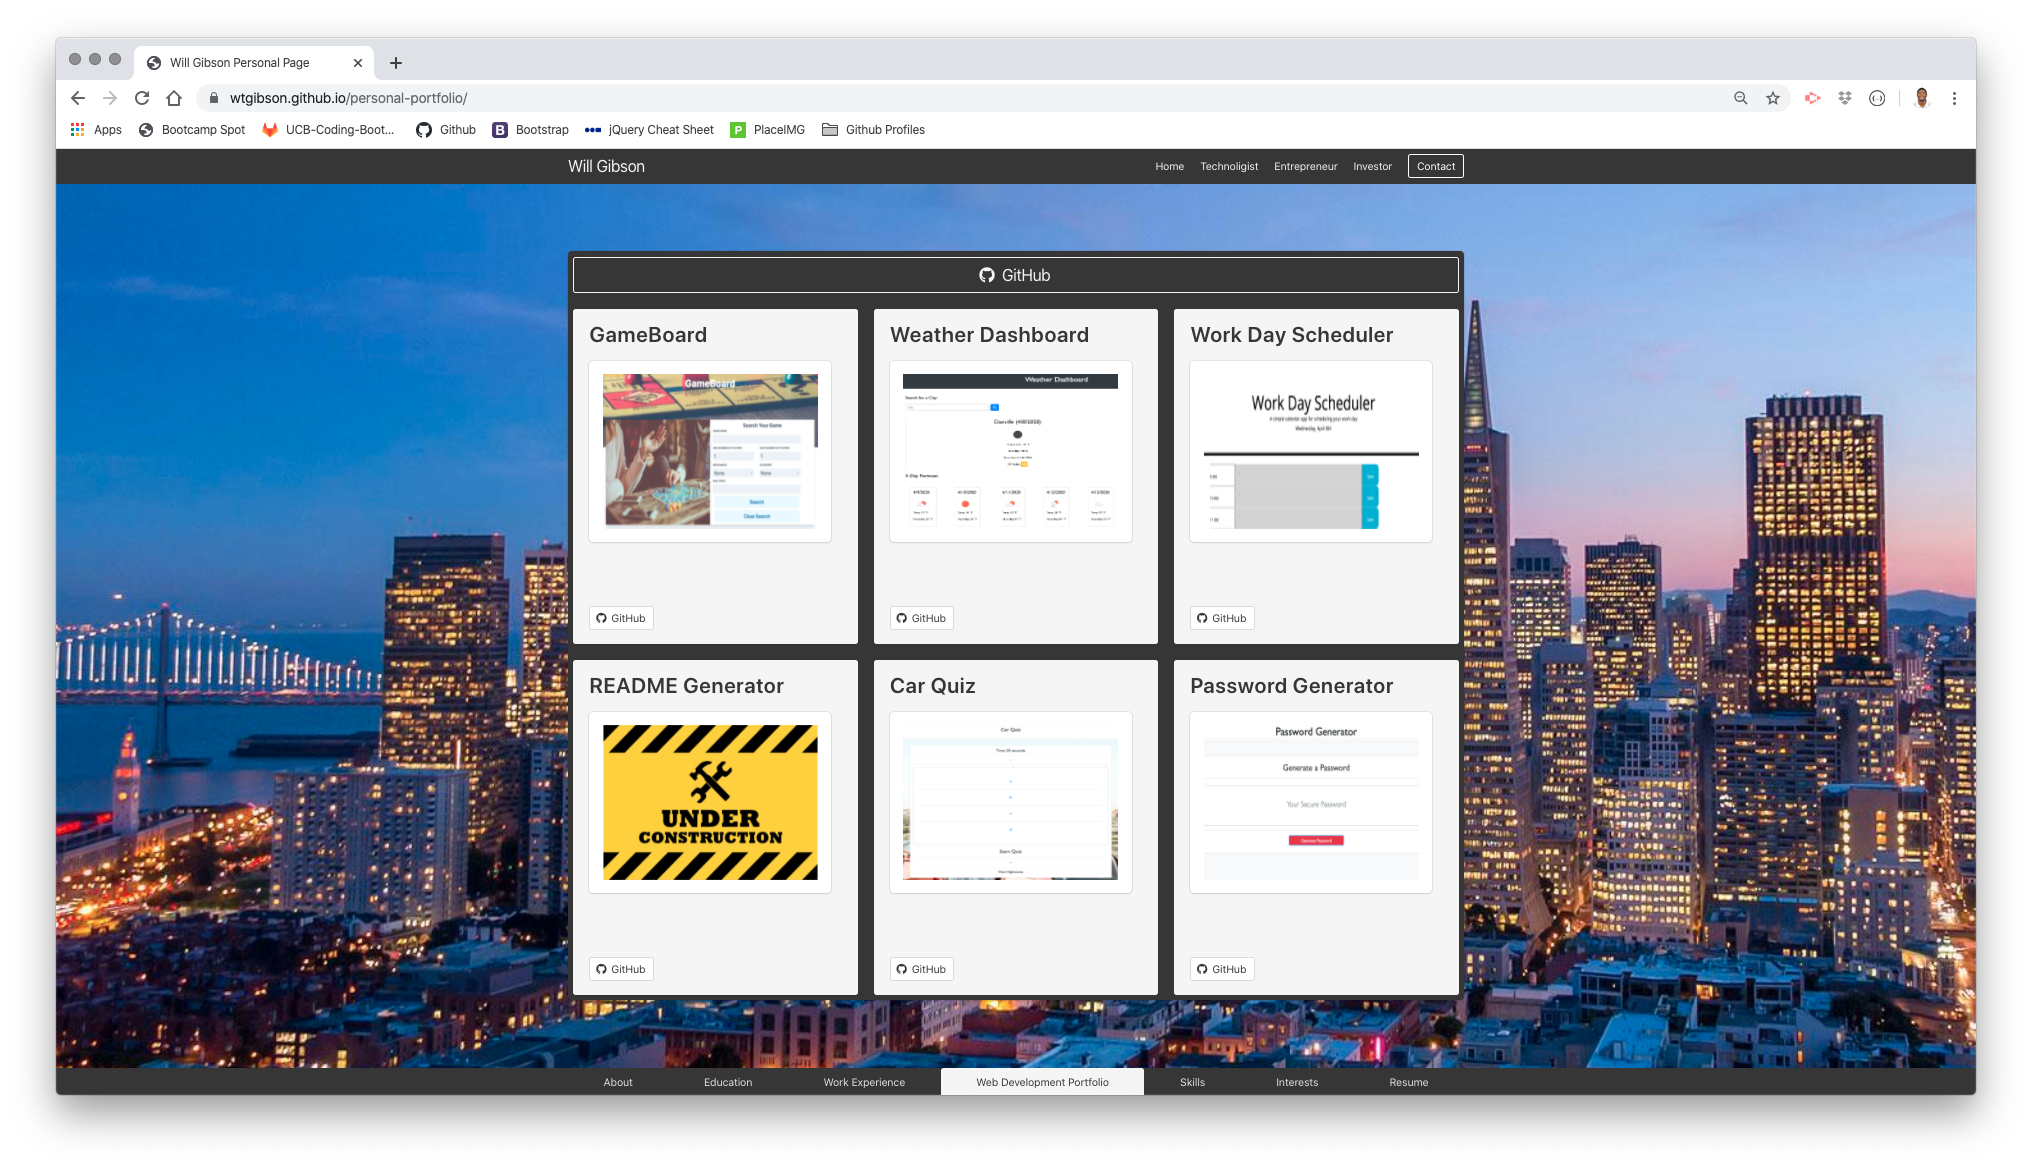
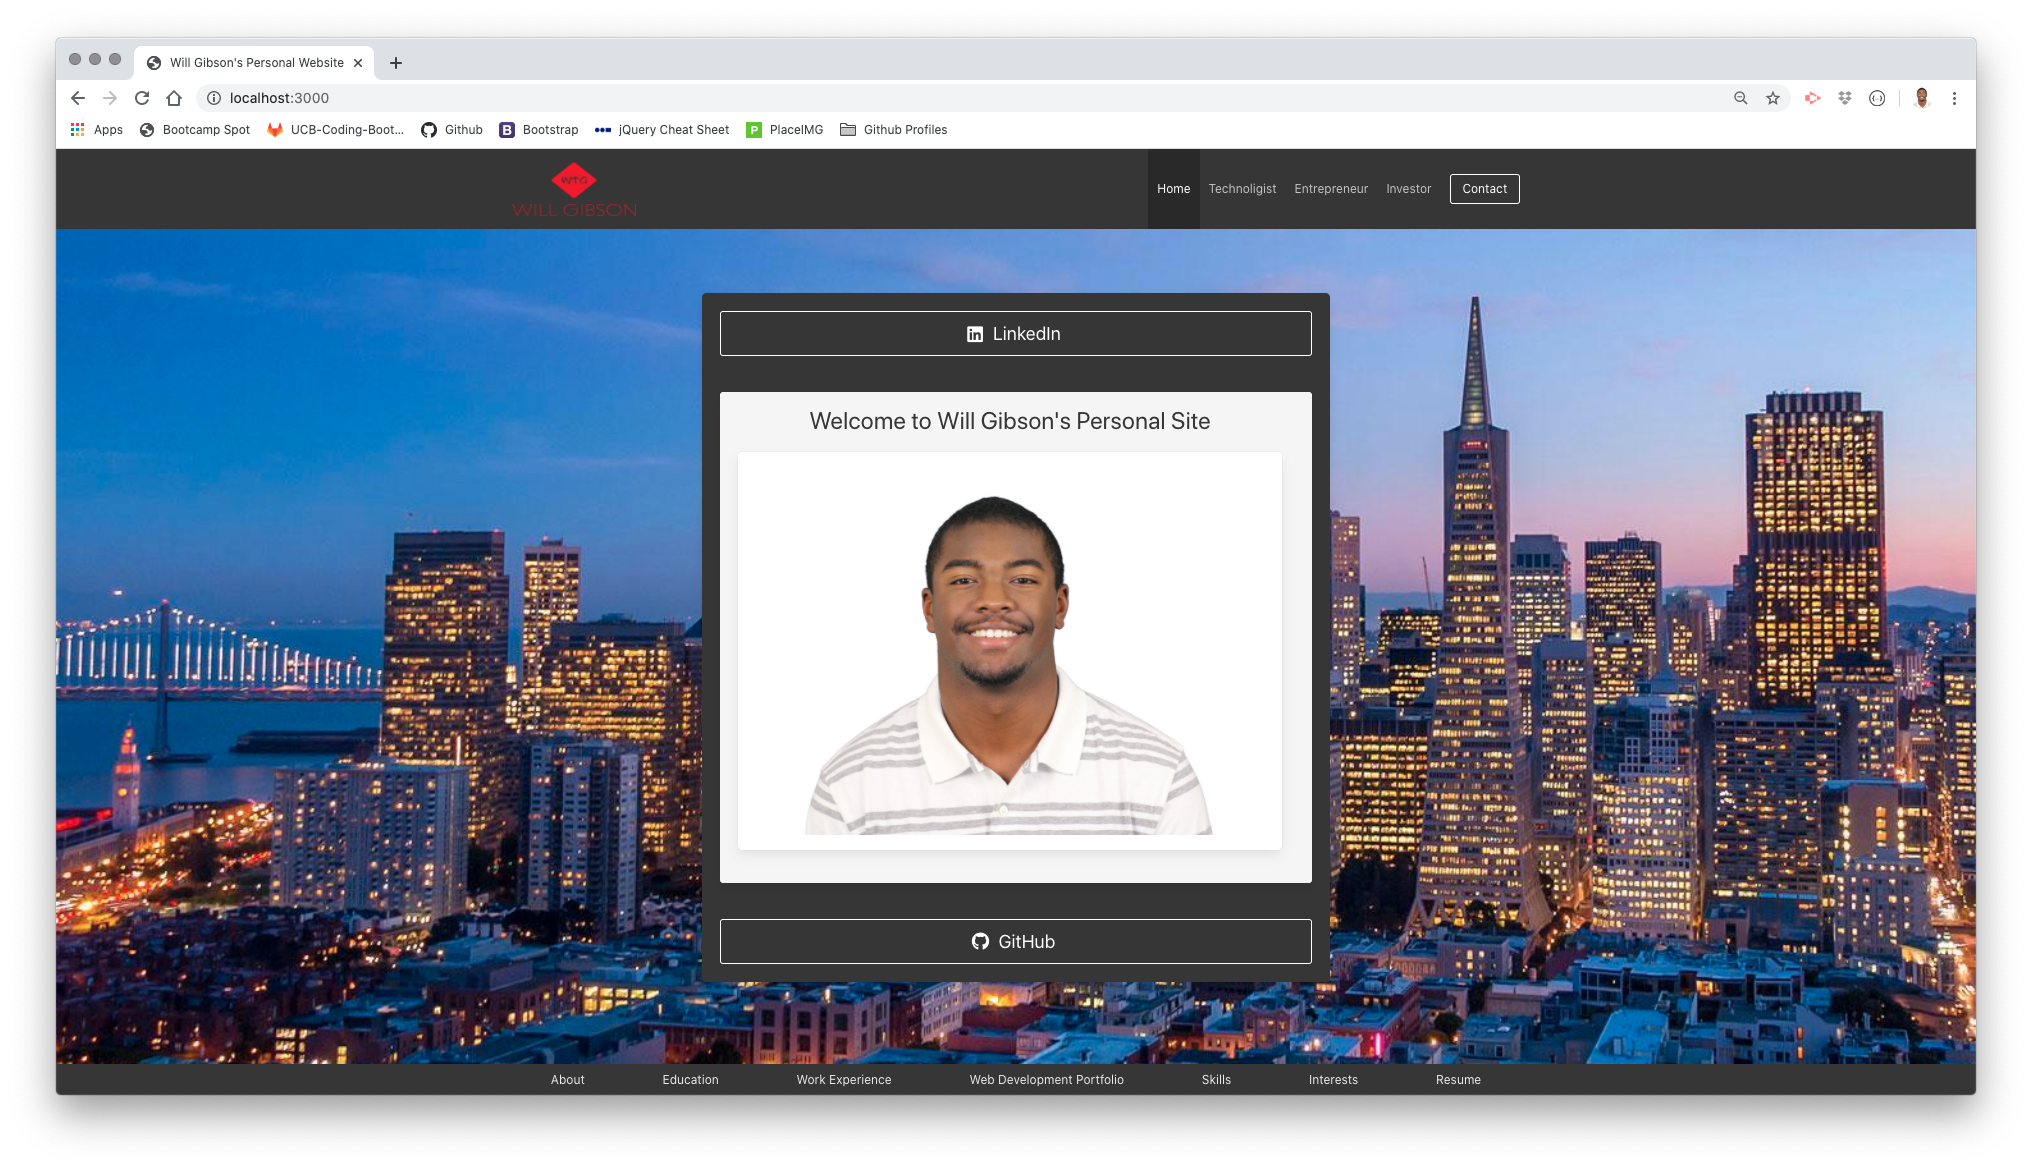
added '*' route

diff --git a/index.html b/index.html
@@ -1,19 +1,13 @@
 <!DOCTYPE html>
 <html>
   <head>
-    <meta charset="utf-8" />
-    <meta http-equiv="X-UA-Compatible" content="IE=edge" />
-    <meta name="viewport" content="width=device-width, initial-scale=1" />
+    <meta charset="utf-8">
+    <meta http-equiv="X-UA-Compatible" content="IE=edge">
+    <meta name="viewport" content="width=device-width, initial-scale=1">
     <title>Will Gibson's Personal Website</title>
-    <link rel="stylesheet" href="css/style.css" />
-    <link
-      rel="stylesheet"
-      href="https://cdnjs.cloudflare.com/ajax/libs/bulma/0.8.2/css/bulma.css"
-    />
-    <script
-      src="https://kit.fontawesome.com/0e93925fbf.js"
-      crossorigin="anonymous"
-    ></script>
+    <link rel="stylesheet" href="../css/style.css">
+    <link rel="stylesheet" href="https://cdnjs.cloudflare.com/ajax/libs/bulma/0.8.2/css/bulma.css"/>
+    <script src="https://kit.fontawesome.com/0e93925fbf.js" crossorigin="anonymous"></script>
   </head>
   <body>
     <section class="hero is-dark is-fullheight">
@@ -22,16 +16,12 @@
         <header class="navbar">
           <div class="container">
             <div class="navbar-brand">
-              <a class="navbar-item is-size-4">
-                <img
-                  src="https://dewey.tailorbrands.com/production/brand_version_mockup_image/161/2947116161_0432e548-4ef8-43de-ba8d-87f59b687878.png"
-                  alt=""
-                  id="navbar-logo"
-                />
-                <!-- <h1>Will Gibson</h1> -->
+              <a class="navbar-item">
+                <img src="https://dewey.tailorbrands.com/production/brand_version_mockup_image/161/2947116161_0432e548-4ef8-43de-ba8d-87f59b687878.png" alt="" id="navbar-logo">
+                <!-- <h1 class="margin">Personal Website</h1> -->
               </a>
               <span class="navbar-burger burger" data-target="navbarMenuHeroC">
-                <a class="navbar-item">
+                <a class="navbar-item is-active" href="/">
                   Home
                 </a>
                 <a class="navbar-item">
@@ -52,7 +42,7 @@
             </div>
             <div id="navbarMenuHeroC" class="navbar-menu">
               <div class="navbar-end">
-                <a class="navbar-item">
+                <a class="navbar-item is-active" href="/">
                   Home
                 </a>
                 <a class="navbar-item">
@@ -74,7 +64,7 @@
           </div>
         </header>
       </div>
-
+      
       <!-- Hero content: will be in the middle -->
       <div class="hero-body">
         <div class="column is-4"></div>
@@ -92,56 +82,23 @@
               </a>
             </div>
 
-            <br />
+            <br/>
 
             <div class="column">
               <div class="tile is-12">
                   <article class="tile box is-child notification is-light">
-                    <h1 class="title has-text-dark has-text-centered">About</h1>
+                    <h1 class="title has-text-dark has-text-centered">Welcome to Will Gibson's Personal Site</h1>
                     <div class="container">
                       <figure class="is-flex is-horizontal-center">
-                        <!-- <img src="assets/images/william-gibson-jr-photo.jpg" class="box" id="about-picture"/>                         -->
+                        <img src="../assets/images/william-gibson-jr-photo.jpg" class="box" id="about-picture"/>                        
                       </figure>
                     </div>
-                    <br />
-                    <p class="subtitle has-text-dark has-text-justified is-size-5">
-                      Growing up in a household headed by two entrepreneurs, I
-                      was instilled with a passion for business at a very
-                      young age. To me, business is an art form that presents
-                      the challenge of consistently providing customers
-                      meaningful products and services while contemplating
-                      changing financial, technical, and regulatory
-                      constraints. 
-                      <br>
-                      <br>
-                      Through my prior work experience, I have
-                      garnered an understanding of capital markets and
-                      revenue/cost management, as well as an expertise in
-                      financial modeling, data analysis/visualization, and the
-                      presentation of key insights. All of my involvement,
-                      both in the business world and outside of it, has shaped
-                      me into the organized, persistent, and resourceful
-                      self-starter that I am today. 
-                      <br>
-                      <br>
-                      Inspired by innovation at
-                      the intersection of technology and business, as well as
-                      passionate about all things entrepreneurship, investing,
-                      and personal finance. Feel free to reach out and
-                      <a href="mailto:will.gibson7@gmail.com" class="has-text-dark">connect</a>
-                      with me!
-                    </p>
-                    <!-- <a href="https://github.com/wtgibson/job-kit" target="_blank" class="button">
-                      <span class="icon">
-                        <i class="fab fa-github"></i>
-                      </span>
-                      <span>GitHub</span>
-                    </a> -->
+                    <br/>
                   </article>
                 </div>
               </div>
 
-            <br />
+            <br/>
 
             <div class="column">
               <a
@@ -158,13 +115,13 @@
           </div>
         <div class="column is-4"></div>
       </div>
-
+      
       <!-- Hero footer: will stick at the bottom -->
       <div class="hero-foot">
         <nav class="tabs is-boxed is-fullwidth">
           <div class="container">
             <ul>
-              <li class="is-active"><a href="/about">About</a></li>
+              <li><a href="/about">About</a></li>
               <li><a href="/education">Education</a></li>
               <li><a href="/work">Work Experience</a></li>
               <li><a href="/web-development">Web Development Portfolio</a></li>
@@ -176,6 +133,6 @@
         </nav>
       </div>
     </section>
-    <!-- <script type="text/javascript" src="lib/main.js"></script> -->
+    <script type="text/javascript" src="../js/main.js"></script>
   </body>
 </html>

diff --git a/server.js b/server.js
@@ -19,10 +19,10 @@ app.get("/", (req, res) => {
     res.sendFile(path.join(__dirname, "./public/views/index.html"));
 });
 
-// // Landing page
-// app.get("*", (req, res) => {
-//     res.sendFile(path.join(__dirname, "./public/views/index.html"))
-// });
+// Landing page
+app.get("*", (req, res) => {
+    res.sendFile(path.join(__dirname, "./public/views/index.html"))
+});
 
 // Technologist page
 app.get("/technologist", (req, res) => {

diff --git a/README.md b/README.md
@@ -5,7 +5,7 @@
 The purpose of the assignment was to create an updated portfolio site showcasing several assignments and projects (along with deployed page and Github repo links) developed throughout the program.
 
 ## Site Pictures
-![Site](images/personal-portfolio.png)
+![Site](public/assets/images/personal-portfolio.png)
 
 ## Technologies Used
 - HTML - used to create elements on the DOM
@@ -20,19 +20,26 @@ Below is an example of a block of HTML code leveraging the Bulma framework and i
 
 ```html
 <article class="tile box is-child notification is-light">
-    <p class="title has-text-dark">GameBoard</p>
+
+    <p class="title has-text-dark">JobKit</p>
+
     <figure class="image is-4by3">
-    <a href="https://popsizzle.github.io/API-Group-Project/" target="_blank"><img src="images/gameboard.png" class="box"></a>
+        <a href="https://job-kit.herokuapp.com/" target="_blank"><img src="assets/images/jobkit-2.png" class="box"></a>
     </figure>
+
     <br>
+
     <p class="subtitle has-text-dark is-invisible">Description</p>
+
     <br>
-    <a href="https://github.com/PopSizzle/API-Group-Project" target="_blank" class="button">
+
+    <a href="https://github.com/wtgibson/job-kit" target="_blank" class="button">
     <span class="icon">
         <i class="fab fa-github"></i>
     </span>
     <span>GitHub</span>
     </a>
+
 </article>
 ```
 
@@ -42,7 +49,7 @@ Below is an example of a block of HTML code leveraging the Bulma framework and i
 
 ## Author Links
 
-![Site](images/william-gibson-jr-photo.jpg)
+![Site](public/assets/images/william-gibson-jr-photo.jpg)
 
 Will Gibson
 
